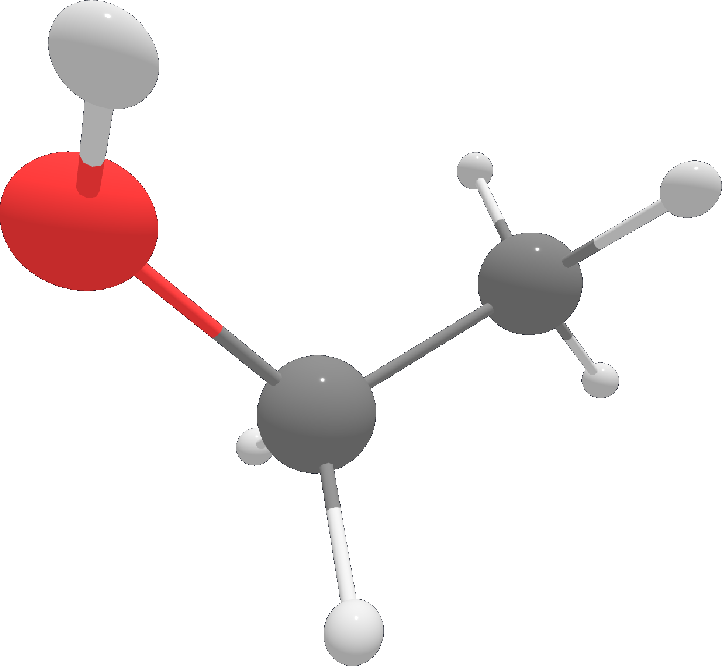
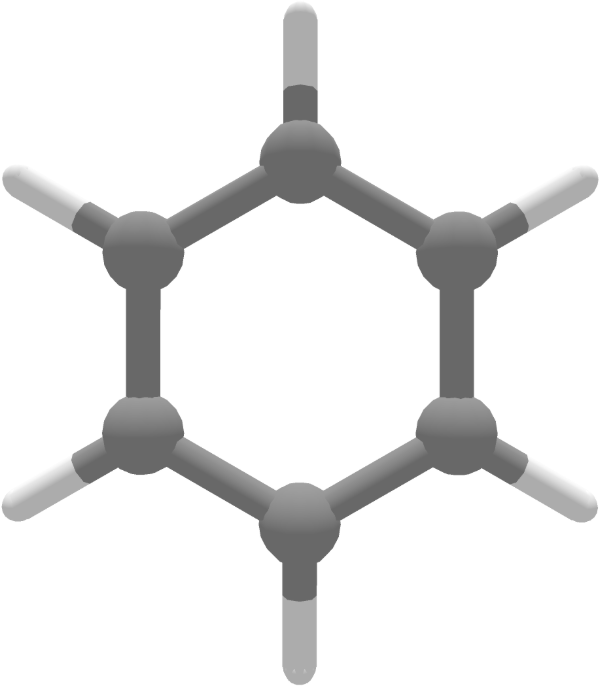
checkpoint

Changed region(s): [[0.0, 0.0, 1.0, 1.0]]

diff --git a/demo/main.js b/demo/main.js
@@ -560,10 +560,7 @@ window.addEventListener('keyup', function (e) {
 
 window.addEventListener('keydown', function (e) {
     if (isLPressed && e.key === 'Enter') {
-        const newData = window.prompt("Enter the JSON data:");
-        if (newData) {
-            main.newMolecule(newData, main.mode);
-        }
+        saveImage();
     }
     if (e.key == "Shift") {
         shiftDown = true;
@@ -611,10 +608,6 @@ window.addEventListener('replyUpdated', (event) => {
     console.log(newReply);
     main.newMolecule(JSON.stringify(newReply), main.mode);
 
-});
-
-saveImageButton.addEventListener('click', () => {
-    saveImage();
 });
 
 renderer.domElement.addEventListener('pointerdown', enhancedOnPointerDown, false);
